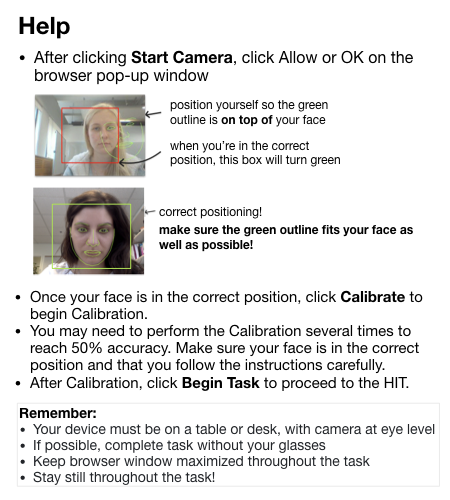
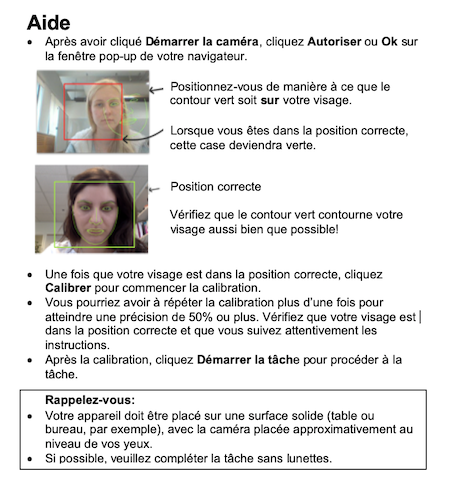
added french translation

Changed region(s): [[0.0311, 0.0306, 0.9644, 0.9796]]

diff --git a/experiments/01_experiment_adults/video_task.html b/experiments/01_experiment_adults/video_task.html
@@ -2,7 +2,7 @@
 <html>
 <head>
   <META HTTP-EQUIV="CONTENT-TYPE" CONTENT="text/html; charset=utf-8">
-    <title> Select the person described! </title>
+    <title> Regardez les vidéos! </title>
 
 
     <!--  general js utilities -->
@@ -58,17 +58,17 @@
 
 
 
-    <noscript>This task requires JavaScript.</noscript>
+    <noscript>Javascript doit être activé pour compléter cette tâche.</noscript>
     <div class="slide" id="i0" >
       <div class="text-center">
         <img src="eyes.png" alt="user" id="userpic"></img>
-        <p id="study_title"><b> Select the person described! </b></p>
+        <p id="study_title"><b> Regardez les vidéos! </b></p>
         <!-- <br> -->
 
         <div class="card bg-light mb-3">
           <div class="card-body">
-            <p class="card-text">In this task, you will see illustrated images of two people. You will hear an instruction to click on the person who fits the description - e.g., "Click on the person with glasses".
-              <br> Your task is to click on the person described. Note: you will see the images for two seconds before clicking Continue to proceed; the images will reappear as the audio instruction plays. </p>
+            <p class="card-text">Pour cette tâche, vous regarderez les vidéos présentées, pour une durée d’approximativement 10 minutes. Après chaque série de vidéos, vous cliquerez “Suivant” pour vous rendre vers la série suivante. 
+              <br> Essayez de regarder la vidéo qui est décrite par la narratrice. Cette étude ayant originellement été faite pour des enfants, certaines phrases pourraient paraître étranges. </p>
             </div>
           </div>
 
@@ -77,24 +77,23 @@
           <div class="card border-danger mb-3" >
             <div class="card-body text-danger">
               <p class="card-text">
-                <b>Please read all the following information carefully before deciding whether to accept the HIT. </b></p>
-                During this task, your eye movements will be recorded using your web camera. <br>
-                Unfortunately, you will be unable to complete this HIT if you have any uncorrected vision impairments (e.g.,  amblyopia, or 'lazy eye').
-                If you use glasses/contact lenses for near or farsightedness, that's fine.
+                <b>Merci de lire attentivement les informations suivantes avant de décider si vous aimeriez accepter la tâche. </b></p>
+                Durant cette tâche, vos mouvements oculaires seront enregistrés via votre webcam. <br>
+                Malheureusement, vous ne pouvez pas compléter cette tâche si vous présentez des déficiences visuelles non corrigées. Vous pouvez utiliser des lunettes ou lentilles si vous en avez besoin pour votre myopie ou presbytie!
                 <br>
-                We will NOT record images of your face at any point: we will only record the coordinates of your eye movements. <br>
+                Nous n’enregistrons des images de votre visage à aucun moment: seulement les coordonnées de vos mouvements oculaire. <br>
               </div>
             </div>
 
             <div class="card border-success mb-3">
               <div class="card-body">
-                <h5 class="card-title"> Browser Width</h5>
-                <p class="card-text"> Your browser window must be at least 1280 pixels wide, while fitting within your computer display: you must be able to see everything in the browser window.
+                <h5 class="card-title"> Largeur du Navigateur</h5>
+                <p class="card-text"> Votre fenêtre de navigation doit être au moins 1280 pixels de large, mais doit aussi tenir entièrement dans l’afficheur de votre appareil: vous devrez être capable de voir la totalité des éléments affichés dans votre fenêtre.
                   <br>
-                  Please mazimize your browser now, and keep it maximized throughout the task.
+                  Merci de maximiser la largeur de votre fenêtre de navigateur, et de le laisser tel quel durant la totalité de la tâche.
                   <br>
-                  If you're unable to maximize it to at least 1280 pixels wide, do not accept the HIT.  you won't be able to start the HIT and will have to return it. </b></p>
-                  <b> Your current browser width is: <span id="dimensions"></span></b>
+                  Si vous ne pouvez pas atteindre 1280 pixels de largeur, n’acceptez pas la tâche; vous ne serez pas en mesure de démarrer. </b></p>
+                  <b> La largeur actuelle de votre fenêtre de navigation est: <span id="dimensions"></span></b>
                   <script>
                   $(window).resize(function() {
                     $("#dimensions").html($(window).width());
@@ -104,8 +103,8 @@
 
               <div class="card border-success mb-3">
                 <div class="card-body">
-                  <h5 class="card-title">Sound</h5>
-                  <p class="card-text">You <b> must </b> be able to play sound on your computer: you won't be able to complete the task satisfactorily if not.
+                  <h5 class="card-title">Son</h5>
+                  <p class="card-text">Vous <b> devez </b> être en mesure d’entendre des sons sur votre ordinateur: vous ne pourrez pas compléter la tâche de manière optimale dans le cas contraire.
                   </p>
                 </div>
               </div>
@@ -113,16 +112,16 @@
 
               <div class="card border-success mb-3">
                 <div class="card-body">
-                  <h5 class="card-title"> Browser version </h5>
+                  <h5 class="card-title"> Version du navigateur </h5>
 
-                  <p class="card-text">You must be using one of the following browser versions:
+                  <p class="card-text">Vous devez utiliser l’une des versions de navigateur suivantes:
                     <ul>
                       <p class="text-left">
-                        <li> <b> Google Chrome (version 53 or newer) - (Recommended browser) </b> </li>
-                        <li> Microsoft Edge (version 12 or newer) </li>
-                        <li> Mozilla Firefox (version 42 or newer) </li>
-                        <li> Opera (version 40 or newer) </li>
-                        <li> Safari (version 11 or newer) </li>
+                        <li> <b> Google Chrome (version 53 ou plus récent) - (Recommended browser) </b> </li>
+                        <li> Microsoft Edge (version 12 ou plus récent) </li>
+                        <li> Mozilla Firefox (version 42 ou plus récent) </li>
+                        <li> Opera (version 40 ou plus récent) </li>
+                        <li> Safari (version 11 ou plus récent) </li>
                       </p>
                     </ul>
                   </p>
@@ -132,15 +131,15 @@
 
               <div class="card border-success mb-3">
                 <div class="card-body">
-                  <h5 class="card-title"> Device and Lighting </h5>
+                  <h5 class="card-title"> Appareil et éclairage </h5>
                   <p class="card-text">
                     <ul>
-                      <li> You must be using a desktop or laptop with a web camera - you cannot use a tablet or cell phone </li>
-                      <li> Your device must be placed on a hard surface (e.g. table or desk), with the camera at your eye level </li>
-                      <li> You must be in a brightly lit room, with your face fully illuminated  </li>
-                      <li> You must stay in the same position and keep your head still throughout the calibration phase and task (around 7.5 mins)</li>
-                      <li> You must keep your browser maximized throughout the task </li>
-                      <li> If you can read the screen comfortably without glasses, please complete the task without them </li>
+                      <li> Vous devez utiliser un ordinateur de bureau/portable équipé d’une webcam - vous ne pouvez pas utiliser une tablette ou un téléphone mobile. </li>
+                      <li> Vous devez être dans une pièce bien éclairée, et votre visage devrait être de même complètement éclairé. </li>
+                      <li> Votre appareil doit être placé sur une surface solide (table ou bureau, par example), avec la caméra placée approximativement au niveau de vos yeux.  </li>
+                      <li> Vous devez être dans une pièce bien éclairée, et votre visage devrait être de même complètement éclairé.</li>
+                      <li> Vous devez rester dans la même position et garder votre tête relativement immobile durant la phase de calibration et la tâche en elle-même. </li>
+                      <li> Si vous pouvez facilement lire sur votre écran sans lunettes, veuillez compléter la tâche sans les utiliser. </li>
                     </ul>
                   </p>
                 </div>
@@ -148,41 +147,41 @@
 
               <div class="card border-success mb-3">
                 <div class="card-body">
-                  <h5 class="card-title"> Calibration Phase </h5>
+                  <h5 class="card-title"> Phase de calibration </h5>
                   <p class="card-text">
-                    Once you click Start, you will be enter a 'Calibration' phase before starting the task, where you can check that your head is in the correct position and your face is fully illuminated.
+                    Une fois avoir cliqué “Démarrer”, vous entrerez une phase de calibration avant de commencer la tâche. Vous vérifierez que votre tête est dans la position correcte et votre visage adéquatement éclairé.
                     <br>
-                    <b> IMPORTANT: You may need to perform the Calibration several times to achieve the required accuracy score (50%).
+                    <b> IMPORTANT: Vous pourriez avoir à performer la calibration plusieurs fois avant d’atteindre le score de précision requis (50%).
                       <br>
-                      If you are not in a brightly lit room, with your device on a hard surface and the camera at eye level, you may be unable to achieve the required Accuracy score, and will have to return the HIT. </b>
+                      Si vous n’êtes pas dans une pièce suffisamment éclairée, avec votre appareil sur une surface solide et la caméra a niveau de vos yeux, vous pourriez ne pas atteindre le score de précision requis, et aurez à arrêter la tâche. </b>
                       <br>
                       <br>
-                      After completing the Calibration, you will proceed to the task. At the end, you will be asked some brief questions about yourself. The entire HIT will take around 7.5 minutes in total.
+                      Après avoir complété la calibration, vous passerez à la tâche. Une fois la tâche complétée, nous vous poserons quelques questions à votre propos. La totalité de la tâche ne devrait pas durer plus de 10 minutes.
                       <br>
                     </p>
                   </div>
                 </div>
 
-                Please only click <b> Start </b> if you agree to all the above.
+                Ne cliquez <b> Démarrer </b> que si vous acceptez toutes les informations et conditions ci-dessus.
 
                 <br>
                 <br>
 
-                <p id="windowsize_err"><font color="red"> Your browser window must be at least 1280 pixels wide. Please maximize it. If you cannot maximize it to at least 1280 pixels wide, please return the HIT. </font></p>
-                <button id="start_button" type="button">Start</button> <br><br>
-                There will be multiple posted versions of this HIT throughout the day. Please only attempt one. Thank you!<br>
+                <p id="windowsize_err"><font color="red"> Votre fenêtre de navigation doit être au moins 1280 pixels de large. Merci de la maximiser. Si vous ne pouvez pas atteindre 1280 pixels de largeur, n’acceptez pas la tâche. </font></p>
+                <button id="start_button" type="button">Démarrer</button> <br>
+                <!--<br>
+                There will be multiple posted versions of this HIT throughout the day. Please only attempt one. Thank you!<br>-->
 
-                <p id="legal"> <b>LEGAL INFORMATION:</b>
-                  Please read the information below. By clicking Start, you agree that you have read the information and consent to participate in the survey.
-                  We invite you to participate in a research study on language production and comprehension. Your experimenter will ask you to do a linguistic task such as reading sentences or words, naming pictures or describing scenes, making up sentences of your own, or participating in a simple language game.
+                <p id="legal"> <b>INFORMATIONS LEGALES:</b>
+                  Merci de lire les informations ci-dessous. En cliquant “Démarrer”, vous acceptez d’avoir lu toutes les informations, et consentez à participer à l’enquête. 
+                  Nous vous invitons à participer à une étude de recherche concernant la production et compréhension du langage. Votre expérimentateur/trice vous demanderez d’effectuer une tâche linguistique telle que lire des mots ou phrases, ou regarder des vidéos.
                   <br>
-                  There are no risks or benefits of any kind involved in this study. You will be paid for your participation at the posted rate. If you have read this form and have decided to participate in this experiment, please understand your participation is voluntary and you have the right to withdraw your consent or discontinue participation at any time without penalty or loss of benefits to which you are otherwise entitled. You have the right to refuse to do particular tasks. Your individual privacy will be maintained in all published and written data resulting from the study. You may print this form for your records.
+                  Aucun risque ou bénéfice est impliqué dans cette enquête. Vous serez payé pour votre participation au taux affiché. Si vous avez lu ce formulaire et avez décidé de participer à cette étude, veuillez comprendre que votre participation est volontaire et que vous avez le droit de retirer votre consentement ou arrêter votre participation à n’importe quel moment, sans pénalité ou perte de bénéfices auxquels vous avez autrement droit. Vous avez le droit de refuser de participer à certaines tâches. Vos informations privées et individuelles seront conservées dans toutes données, publiées et écrites, résultant de cette étude. Vous pouvez imprimer ce formulaire pour vos dossiers. 
                   <br>
-                  <b>CONTACT INFORMATION:</b>
-                  If you have any questions, concerns or complaints about this research study, its procedures, risks and benefits, you should contact the Protocol Director Meghan Sumner at (650)-725-9336.
-                  If you are not satisfied with how this study is being conducted, or if you have any concerns, complaints, or general questions about the research or your rights as a participant, please contact the Stanford Institutional Review Board (IRB) to speak to someone independent of the research team at (650)-723-2480 or toll free at 1-866-680-2906. You can also write to the Stanford IRB, Stanford University, 3000 El Camino Real, Five Palo Alto Square, 4th Floor, Palo Alto, CA 94306 USA.
+                  <b>INFORMATIONS DE CONTACT:</b>
+                  Si vous avez des questions, préoccupations, ou plaintes à propos de cette étude, ces procédures, risques et bénéfices, vous devrez contacter le Directeur de Protocol (“Protocol Director”) Meghan Sumner à ce numéro: (650)-725-9336. Si vous n’êtes pas satisfait de la manière dont cette enquête a été conduite, ou si vous avez des préoccupations, plaintes, ou questions concernant l’étude ou vos droits en tant que participant, merci de contact le Stanford Institutional Review Board (IRB) pour parler à un individu indépendant de l’équipe de recherche à ce numéro, sans frais: 1-866-680-2906. Vous pouvez également écrire à “Stanford IRB, Stanford University”, 3000 El Camino Real, Five Palo Alto Square, 4th Floor, Palo Alto, CA 94306 USA.
                   <br>
-                  If you agree to participate, please proceed to the study tasks. </p>
+                  Si vous acceptez de participer, merci de poursuivre vers les tâches d’étude. </p>
                 </div>
               </div>
 
@@ -195,11 +194,11 @@
                 <nav id="webgazerNavbar" class="navbar navbar-nav navbar-fixed-top">
                   <div class="container-fluid">
                     <div class="navbar-header">
-                      <button id="start_camera" onclick="_s.start_camera()">Start Camera</button>
-                      <button id="start_calibration" onclick="Restart()"> Calibrate</button>
+                      <button id="start_camera" onclick="_s.start_camera()">Démarrer la caméra</button>
+                      <button id="start_calibration" onclick="Restart()"> Calibrer</button>
                       <!-- <button id="restart_calibration" onclick="Restart()">recalibrate</button> <--hide until done once -->
-                      <button id = 'begin_task' onclick="_s.finish_calibration_start_task()"> Begin Task</button>
-                      <button id = 'helpbutton' onclick="helpModalShow()"> Help </button>
+                      <button id = 'begin_task' onclick="_s.finish_calibration_start_task()"> Démarrer la tâche</button>
+                      <button id = 'helpbutton' onclick="helpModalShow()"> Aide </button>
 
                       <a class id="Accuracy"> </a>
                     </div>
@@ -227,12 +226,12 @@
                     <!-- Modal content-->
                     <div class="modal-content">
                       <div class="modal-body">
-                        <img src="helpmodalimg.png" class="img-responsive">
+                        <img src="helpmodalimg.png" class="img-responsive" >
 
                       </div>
                       <div class="modal-footer">
-                        <button id="closeBtn" type="button" class="btn btn-default" data-dismiss="modal">Close</button>
-                        <button type="button" class="btn btn-primary" data-dismiss="modal" onclick="_s.start_camera()">Start Camera</button>
+                        <button id="closeBtn" type="button" class="btn btn-default" data-dismiss="modal">Fermer</button>
+                        <button type="button" class="btn btn-primary" data-dismiss="modal" onclick="_s.start_camera()">Démarrer la caméra</button>
                       </div>
                     </div>
 
@@ -245,15 +244,15 @@
               <div class="slide" id="sound_test">
 
                 <div class="text-center">
-                  Press the play button to make sure you can hear the audio clip, and adjust the volume as necessary.  You won't be able to complete the task satisfactorily if you can't hear the audio.
+                  Cliquez sur le bouton “Play” pour vérifier que vous pouvez entendre le clip audio, et ajustez le volume si nécessaire.
                   <br>
-                  In the task, the audio will play automatically, and you'll only hear it once - so listen carefully!
+                  Durant la tâche, l’audio jouera automatiquement, donc écoutez attentivement!
                   <br>
                   <br>
                   <audio id="soundtest" controls src='soundtest.mp3'> </audio>
                   <br>
                   <br>
-                  <button id = "soundtest_OK" onclick="_s.soundtest_OK()"> Click here if you can hear the audio clearly. </button> </p>
+                  <button id = "soundtest_OK" onclick="_s.soundtest_OK()"> Cliquez ici si vous pouvez entendre l’audio nettement. </button> </p>
                 </div>
               </div>
 
@@ -267,8 +266,8 @@
                 </div>
                 <br>
                 <div class="text-center">
-                  <button id = "continue_button" onclick="_s.continue()" style="width:100px; height:30px"> Continue </button> </p>
-                  <button id = "next_button" onclick="_s.next_trial()" style="width:50px; height:30px"> Next </button> </p>
+                  <button id = "continue_button" onclick="_s.continue()" style="width:100px; height:30px"> Continuer </button> </p>
+                  <button id = "next_button" onclick="_s.next_trial()" style="width:70px; height:30px"> Suivant </button> </p>
                   <!--<p class="err"><font color="red">Please select a person </font></p>-->
                 </div>
               </div>
@@ -277,55 +276,55 @@
 
               <div class="slide"  id="subj_info">
                 <div class="text-center">
-                  <p class="subj_info_title">Please answer the brief questions below.</p>
+                  <p class="subj_info_title">Merci de répondre aux simples questions ci-dessous.</p>
                   <br>
-                  <div class="subj_info_title">About you</div>
+                  <div class="subj_info_title">A votre propos</div>
 
-                  <p>First Language(s) (the language(s) you spoke at home as a child): <input type="text" id="language"/> </p>
+                  <p>Première(s) Langue(s) (la/les langue(s) que vous parliez chez vous enfant): <input type="text" id="language"/> </p>
 
-                  <p>Gender:
+                  <p>Genre:
                     <select id="gender">
                       <label><option value=""/></label>
-                      <label><option value="Male"/>Male</label>
-                      <label><option value="Female"/>Female</label>
-                      <label><option value="Other"/>Other</label>
+                      <label><option value="Male"/>Homme</label>
+                      <label><option value="Female"/>Femme</label>
+                      <label><option value="Other"/>Autre</label>
                     </select>
                   </p>
 
-                  <p>Age: <input type="text" id="participantage"/></p>
+                  <p>Âge: <input type="text" id="participantage"/></p>
 
                   <br>
-                  <div class="subj_info_title">About the task </div>
+                  <div class="subj_info_title">À propos de la tâche </div>
 
-                  <p>Do you need to wear glasses (or contact lenses) to correct your vision?:
+                  <p>Avez-vous besoin de porter des lunettes (ou lentilles de contact) pour corriger votre vision?:
                     <select id="eyesight">
                       <label><option value="-1"/></label>
-                      <label><option value="none"/>No</label>
-                      <label><option value="nearsighted"/>Yes, I'm nearsighted (can't see well far away)</label>
-                      <label><option value="farsighted"/>Yes, I'm farsighted (can't see well close up)</label>
+                      <label><option value="none"/>Non</label>
+                      <label><option value="nearsighted"/>Oui, je suis myope (difficulté à voir si loin)</label>
+                      <label><option value="farsighted"/>Oui, je suis presbyte (difficulté à bien voir si proche)</label>
                     </select>
                   </p>
-                  <p>During the task, were you wearing glasses or contact lenses?:
+                  <p>Durant la tâche, portiez-vous des lunettes ou des lentilles de contact?
                     <select id="eyesight_task">
                       <label><option value="-1"/></label>
-                      <label><option value="neither"/>No, neither</label>
-                      <label><option value="glasses"/>Glasses</label>
-                      <label><option value="contacts"/>Contact lenses</label>
+                      <label><option value="neither"/>Non, aucun des deux</label>
+                      <label><option value="glasses"/>Lunettes</label>
+                      <label><option value="contacts"/>Lentilles de contact</label>
                     </select>
                   </p>
 
-                  <p>(Optional) Do you have any comments about the HIT (any problems, etc.) ? </p>
+                  <p>(Facultatif) Avez-vous des commentaires concernant la tâche (problèmes rencontrés etc.)?</p>
                   <textarea id="comments" rows="3" cols="50"></textarea>
                   <br/>
-                  <p class="err_part2"><font color="red">Please complete all non-optional questions! </font></p>
+                  <p class="err_part2"><font color="red">Merci de compléter toutes les questions non-facultatives! </font></p>
                   <br>
-                  <button onclick="_s.submit()"> Finish </button>
+                  <button onclick="_s.submit()"> Terminer </button>
                 </div>
               </div>
 
 
               <div id="thanks" class="slide js" >
-                <p  class="big">Thanks for your time!</p>
+                <p  class="big">Merci pour votre temps!</p>
               </div>
 
             </body>

diff --git a/experiments/01_experiment_adults/js/webgazer_tools/calibration_functions.js b/experiments/01_experiment_adults/js/webgazer_tools/calibration_functions.js
@@ -22,7 +22,7 @@ function PopUpInstruction(){
   ClearCanvas();
   swal({
     title:"Calibration",
-    text: "Please click on each of the 9 points on the screen. You must click on each point 5 times till it goes yellow. This will calibrate your eye movements.",
+    text: "Merci de cliquer sur chacun des 9 points sur votre écran. Vous devez cliquer chaque point 5 fois jusqu’à ce que la couleur devienne jaune. Cela calibrera vos mouvements oculaires.",
     buttons:{
       cancel: false,
       confirm: true
@@ -93,8 +93,8 @@ function doCalibration(){
 
             // notification for the measurement process
             swal({
-              title: "Calculating measurement",
-              text: "Please don't move your mouse & stare at the middle dot for the next 5 seconds. This will allow us to calculate the accuracy of our predictions.",
+              title: "Calculation des mesures",
+              text: "Merci de ne pas bouger votre souris et de regarder vers le point central pour les 5 prochaines secondes. Cela nous permettra de calculer la précision de nos prédictions.",
               closeOnEsc: false,
               allowOutsideClick: false,
               closeModal: true
@@ -110,14 +110,14 @@ function doCalibration(){
                       var past50 = get_points() // retrieve the stored points
                       precision_measurement = calculatePrecision(past50);
                       // var precision_measurement = calculatePrecision(past50);
-                      var accuracyLabel = "<a>Accuracy | "+precision_measurement+"%</a>";
+                      var accuracyLabel = "<a>Précision | "+precision_measurement+"%</a>";
                       $("#begin_task").show();
                       document.getElementById("Accuracy").innerHTML = accuracyLabel; // Show the accuracy in the nav bar.
                       swal({
-                        title: "Your accuracy measure is " + precision_measurement + "%",
+                        title: "Votre mesure de précision est: " + precision_measurement + "%",
                         allowOutsideClick: false,
                         buttons: {
-                          cancel: "Calibrate again",
+                          cancel: "Calibrer à nouveau",
                           confirm: true,
                         }
                       }).then(isConfirm => {

diff --git a/experiments/01_experiment_adults/js/exp_run/video_task.js b/experiments/01_experiment_adults/js/exp_run/video_task.js
@@ -28,8 +28,8 @@ function make_slides(f) {
       else {
         exp.accuracy_attempts.push(precision_measurement);
         swal({
-          title:"Calibration Fail",
-          text: "Either you haven't performed the calibration yet, or your calibration score is too low. Your calibration score must be 50% to begin the task. Please click Recalibrate to try calibrating again.",
+          title:"Échec de calibration",
+          text: "Soit vous n’avez pas encore effectué la calibration, soit vous n’avez pas atteint le score de calibration requis (50%). Cliquez sur 'Calibrer à nouveau' pour recommencer la calibration.",
           buttons:{
             cancel: false,
             confirm: true
@@ -84,7 +84,6 @@ function make_slides(f) {
     next_trial : function(e){
         exp.keep_going = false;
         this.log_responses();
-        console.log(exp.data_trials)
         _stream.apply(this);
         exp.tlist = [];
         exp.xlist = [];
@@ -227,7 +226,7 @@ function init_explogic() {
 
 
   //create experiment order and make slides
-  exp.structure=["i0",  "training_and_calibration", "sound_test", "single_trial", "subj_info", "thanks"];
+  exp.structure=[/*"i0",  "training_and_calibration", */"sound_test", "single_trial", "subj_info", "thanks"];
   exp.slides = make_slides(exp);
   exp.nQs = utils.get_exp_length();
 

diff --git a/experiments/01_experiment_adults/js/webgazer_tools/main.js b/experiments/01_experiment_adults/js/webgazer_tools/main.js
@@ -34,7 +34,7 @@ setTimeout(checkIfReady,100);
 }
 
 function Restart(){
-    document.getElementById("Accuracy").innerHTML = "<a>Not yet Calibrated</a>";
+    document.getElementById("Accuracy").innerHTML = "<a>Calibration incomplète </a>";
     ClearCalibration();
     PopUpInstruction();
     doCalibration();
